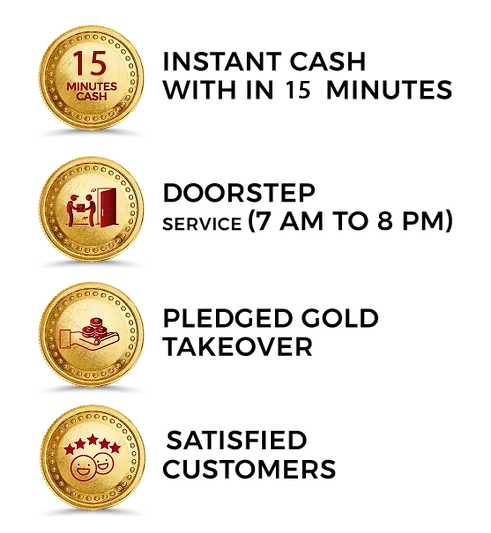
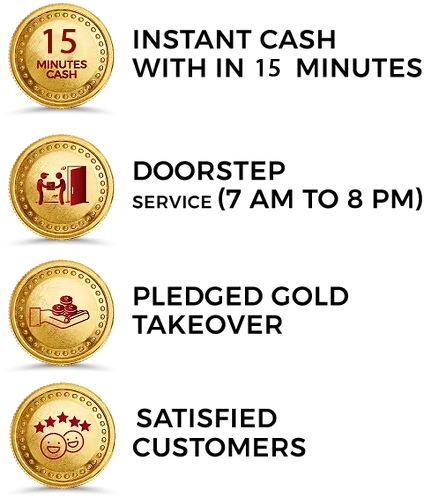
first commit

Changed region(s): [[0.0, 0.0, 0.9817, 0.998]]

diff --git a/css/style.css b/css/style.css
@@ -744,7 +744,10 @@ footer {
     .spec-main {
         flex-direction: column;
         align-items: center;
+
     }
+
+    
 
     .spec-snd {
         text-align: center;
@@ -752,17 +755,17 @@ footer {
         position: relative;
         right: 0px;
     }
-
+.spec-image{
+    margin-top:50px;
+}
     .specimg1 {
-        height: 300px;
-      position: relative;
-      left:90px;
-      margin-top:50px;
+        height: 200px;
+
     }
 
     .specimg2 {
-        height: 300px;
-        margin-left: 50px;
+        height: 200px;
+
     }
 
     .keerthysuresh {

diff --git a/index.html b/index.html
@@ -88,8 +88,8 @@
           <br />
           <a href="tel:+919787875881">Call Us</a>
         </div>
-        <div>
-          <img class="specimg1" src="./img/15min.webp" alt="" />
+        <div class="spec-image">
+          <img class="specimg1" src="./img/15min.png" alt="" />
           <img class="specimg2" src="./img/15mindetails.png" alt="" />
         </div>
       </div>
